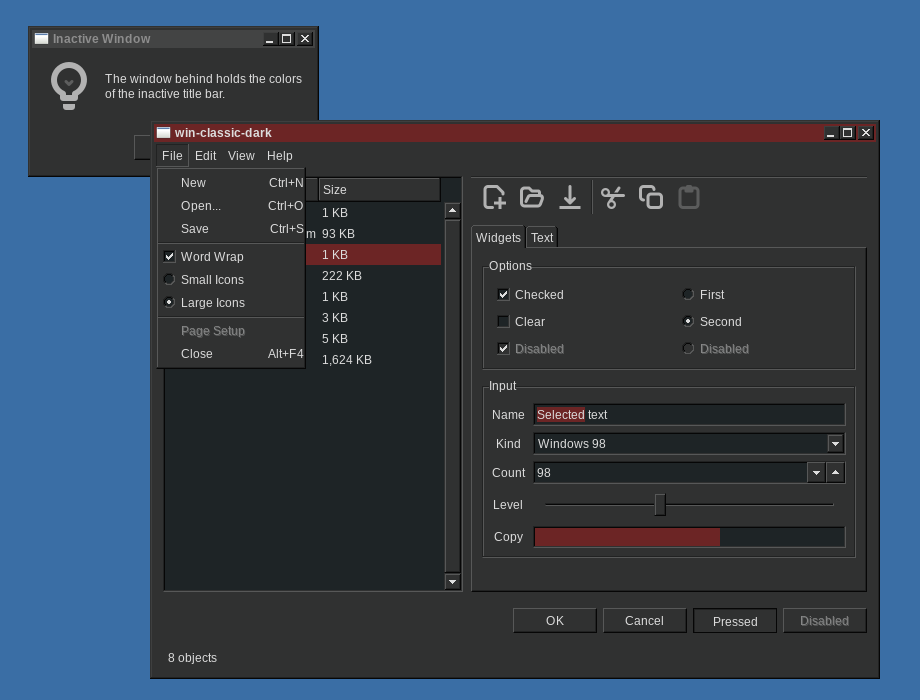
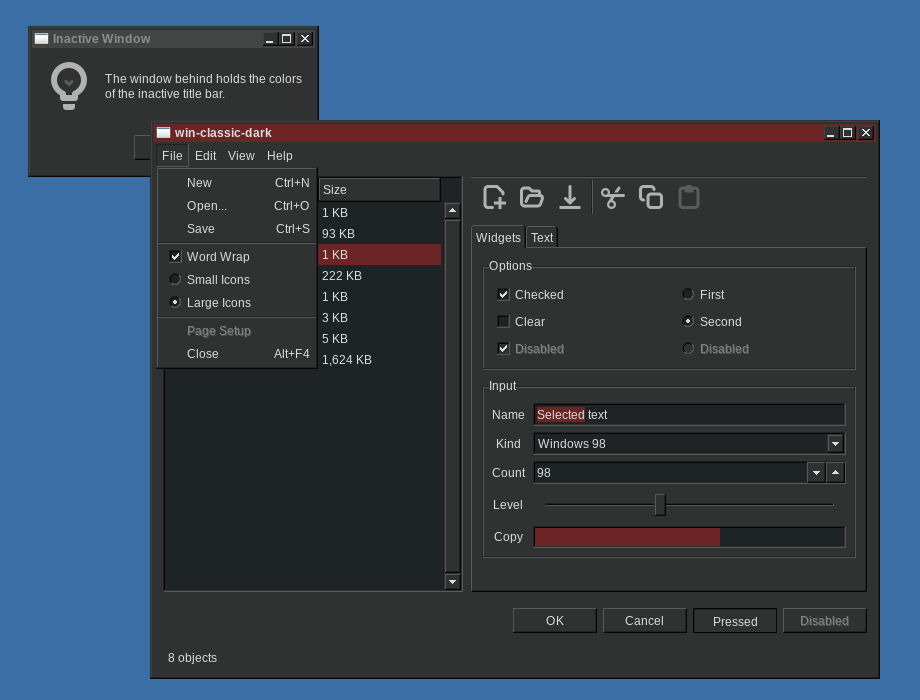
Give a menu item the same space at each side
The item held no side padding, thus the accelerator touched the frame of the
menu at the right and the check box touched it at the left. The item now holds
6px at each side, in GTK3 and in GTK4.

The selection bar keeps the full width of the menu, from one 3D edge to the
other, because the padding is inside the item and the bar covers the box of
the item.

diff --git a/gtk-4.0/gtk-menu.css b/gtk-4.0/gtk-menu.css
@@ -91,7 +91,7 @@ popover.menu > contents > scrolledwindow > viewport > stack > box {
 popover.menu modelbutton {
   min-height: 0;
   min-width: 0;
-  padding: 4px 0;
+  padding: 4px 6px;
   border-radius: 0;
   background-color: transparent;
   color: @fg_color;
@@ -128,8 +128,8 @@ popover.menu modelbutton arrow:hover {
   -gtk-icon-size: 17px;
 }
 
-/* The negative margins were for the 6px side padding of the item. The item now
-   has 2px, so the arrow needs no pull to reach the edge of the menu. */
+/* The side padding of the item holds the arrow away from the edge, as it holds
+   the accelerator. */
 
 popover.menu modelbutton arrow.right {
   margin-left: 10px;

diff --git a/gtk-3.0/gtk-menu.css b/gtk-3.0/gtk-menu.css
@@ -39,11 +39,13 @@ popover.background.touch-selection,
 
    The item has no side margin. Windows draws the selection bar on the full
    width of the menu, from one 3D edge to the other. The 2px side padding of
-   the `menu` node keeps the edges visible. */
+   the `menu` node keeps the edges visible. The side padding of the item holds
+   the label and the accelerator away from the edges, and the bar keeps the
+   full width. */
 
 menu menuitem {
   margin: 0;
-  padding: 4px 0;
+  padding: 4px 6px;
 }
 
 combobox menuitem,
